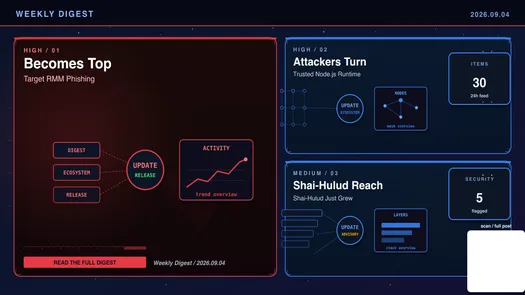
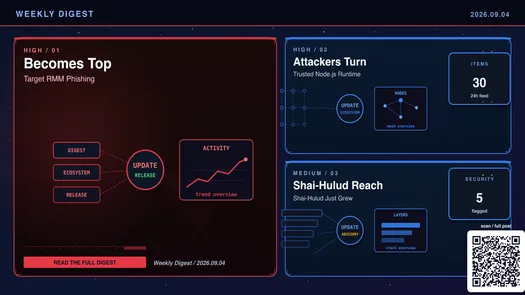
fix(cover): 3일간 라이브였던 빈 QR 복구 + 검증 불가일 때 통과하던 게이트 차단
09-04 다이제스트 커버의 QR 은 불일치가 아니라 **빈 path** 였다(`d=""`). 즉 흰
사각형 위에 "scan / full post" 라벨만 얹힌 채로 프로덕션에 실려 나갔다. 336개
커버 중 이 1개뿐이고, 도입 커밋은 f4a459d1 — 봇이 아니라 로컬 머신
(`namyongkim@twodragon-2.local`)에서 손으로 발행한 것이다. 이 커버가 09-03 부터
main 의 SVG Quality Check 를 red 로 잡아두고 있었다.

**게이트가 왜 못 잡았나.** `check_cover_qr_urls.py` 는 기대값을 `gen_qr(canonical)`
로 만드는데, `gen_qr` 은 `qrcode` 가 import 되지 않으면 모든 입력에 `""` 를
돌려준다. 렌더된 값도 `""` 이므로 비교는 `"" == ""` 이 되어 **공허하게 통과한다.**
같은 파일로 실측: `qrcode` 있으면 `Failures: 1`, import 를 막으면 바이트가 동일한
그 파일이 `OK: 1` / exit 0. 생성기가 고장난 바로 그 환경에서 게이트가 눈이 먼다.

- `fix_qr_url_in_covers.py --commit` 로 QR 블록 복구(코퍼스 214/214 OK).
- 래스터 6종 재생성. `_og.png` 는 `rsvg-convert` 로 다시 뜨고, avif/webp/card 는
  `auto_publish_news._generate_and_commit_raster_variants` (프로덕션과 같은 경로,
  멱등이라 기존 파일 삭제 후 실행). 크롭 육안 확인: 이전 = 빈 흰 사각형,
  이후 = 실제 QR.
- 게이트가 `QRCODE_AVAILABLE` 이 False 면 exit 2 로 **실행을 거부** 한다. 배선된
  세 호출자 모두 의존성을 설치하므로(check-svg/jekyll → scripts/requirements-ci.txt,
  blogwatcher → requirements-blogwatcher.txt) 진짜로 없는 곳에서만 발화한다 —
  이전의 "OK" 가 거짓말이던 바로 그 지점.
- 회귀 가드 `test_check_cover_qr_urls.py` 추가. 대조군 포함: 같은 바이트가
  `qrcode` 있을 때 실제로 거부되는지를 먼저 증명한다(없으면 "부재 시 exit 2" 만으로는
  위반이 아닌 픽스처에도 통과한다). `skipif(not QRCODE_AVAILABLE)` 는 일부러 쓰지
  않았다 — 그게 바로 이 가드가 잡으려는 실패(검증 못 했는데 green)를 가드 안에서
  재현하는 꼴이다. 대신 단언한다.

남은 구멍(이번 범위 밖, 보고만 함): 이 게이트는 pre-commit 에 배선돼 있지 않다.
CI 두 곳과 크론에만 있어서 로컬 발행 경로에는 QR 검사가 아예 없었다.

검증: QR 코퍼스 214/214, svg_quality 336 PASS/0 FAIL, honesty --strict exit 0
[…]

Changed region(s): [[0.8838, 0.7932, 1.0, 0.9763]]

diff --git a/scripts/tests/test_check_cover_qr_urls.py b/scripts/tests/test_check_cover_qr_urls.py
@@ -1,0 +1,120 @@
+#!/usr/bin/env python3
+"""Regression guard: the QR gate must not pass vacuously without ``qrcode``.
+
+``check_cover_qr_urls.py`` proves a cover's QR by re-encoding the canonical
+permalink with ``gen_qr`` and byte-comparing against the rendered path data.
+``gen_qr`` returns ``""`` when the optional ``qrcode`` package is missing, and
+``qr_block`` then emits ``<path ... d=""/>`` — a blank white square where the QR
+should be. Both sides of the comparison are ``""``, so the gate reported
+``Failures: 0`` on exactly the covers it existed to reject.
+
+That is not hypothetical. ``2026-09-04-Tech_Security_Weekly_Digest_AI_Malware_Rust.svg``
+shipped with ``d=""`` in f4a459d1 — a hand-run publish from a laptop, not the
+blogwatcher — and every CI runner (all of which do install ``qrcode``) failed on
+it for the next three days while the blank QR sat live on the site.
+
+The control matters here as much as the treatment. A test that only asserts
+"missing qrcode => exit 2" passes just as well against a fixture that is not a
+violation at all, so ``test_control_*`` first proves the same bytes are rejected
+when ``qrcode`` IS importable. Without that pairing this file would be another
+probe with no control.
+
+Note the absence of ``skipif(not QRCODE_AVAILABLE)`` on the control. Skipping
+there would reproduce, in the guard, the very failure the guard exists to catch:
+an environment without ``qrcode`` would report green while nothing was verified.
+``qrcode`` is a declared dependency of every environment that runs this suite
+(``scripts/requirements-ci.txt`` for svg-lint and jekyll,
+``requirements-blogwatcher.txt`` for the cron corpus gate), so its absence is a
+real failure and is asserted as one below.
+"""
+
+from __future__ import annotations
+
+import check_cover_qr_urls as gate
+import pytest
+from lib.svg_l22_generator import QRCODE_AVAILABLE, qr_block
+
+# The gate only inspects covers it knows the L20 pipeline emitted.
+_L20_MARKER = "<!-- profile: high-quality-cover (L20 Hero+2-Card) -->"
+_COVER_NAME = "2026-09-04-Tech_Security_Weekly_Digest_AI_Malware_Rust.svg"
+
+
+def _write_cover(directory, name: str, qr_url: str | None) -> None:
+    """Write a minimal L20-shaped cover.
+
+    ``qr_url=None`` reproduces the blank-QR failure: the QR block is present and
+    structurally valid, but its path data is empty — what ``qr_block`` emits when
+    ``gen_qr`` has no ``qrcode`` to call.
+    """
+    if qr_url is None:
+        block = (
+            '<g transform="translate(1080,504)" filter="url(#softShadow)">\n'
+            '  <rect x="-12" y="-12" width="132" height="132" rx="8" fill="#FFFFFF"/>\n'
+            '  <path fill="#0A1020" d=""/>\n'
+            "</g>"
+        )
+    else:
+        block = qr_block(qr_url)
+    (directory / name).write_text(
+        f'<svg xmlns="http://www.w3.org/2000/svg">{_L20_MARKER}\n{block}\n</svg>',
+        encoding="utf-8",
+    )
+
+
+@pytest.fixture
+def blank_qr_cover(tmp_path, monkeypatch):
+    """A single blank-QR cover, with the gate's glob root pointed at it."""
+    _write_cover(tmp_path, _COVER_NAME, qr_url=None)
+    monkeypatch.setattr(gate, "ROOT", tmp_path)
+    return tmp_path
+
+
+def test_qrcode_is_installed_in_this_environment():
+    """Asserted, not skipped — see the module docstring.
+
+    Every runner that executes scripts/tests/ declares qrcode. If this fails, the
+    control below cannot run, and a skip would have hidden that behind a green
+    suite.
+    """
+    assert QRCODE_AVAILABLE, (
+        "qrcode is not importable, so the control cannot distinguish a correct "
+        "cover from a blank one. It is declared in scripts/requirements-ci.txt "
+        "and requirements-blogwatcher.txt — install it rather than skipping."
+    )
+
+
+def test_control_blank_qr_is_rejected_when_qrcode_is_available(blank_qr_cover, capsys):
+    """Control: these exact bytes ARE a violation, so the treatment is meaningful."""
+    assert gate.main(["--glob", "*.svg"]) == 1
+    out = capsys.readouterr().out
+    assert "Failures: 1" in out
+    assert "[mismatch]" in out
+
+
+def test_gate_refuses_to_run_when_qrcode_is_unavailable(
+    blank_qr_cover, monkeypatch, capsys
+):
+    """Treatment: the same cover must not be reported OK just because we went blind."""
+    monkeypatch.setattr(gate, "QRCODE_AVAILABLE", False)
+
+    exit_code = gate.main(["--glob", "*.svg"])
+
+    assert exit_code == 2, (
+        "the gate returned a non-refusal exit code with qrcode unavailable. If it "
+        "returned 0 it just certified a blank QR, which is the f4a459d1 failure."
+    )
+    captured = capsys.readouterr()
+    assert "cannot verify" in captured.err
+    assert "Failures: 0" not in captured.out, (
+        "the gate printed a passing report while unable to encode anything"
+    )
+
+
+def test_correct_cover_still_passes(tmp_path, monkeypatch, capsys):
+    """The refusal must not swallow the happy path."""
+    canonical = gate._post_url_from_filename(_COVER_NAME)
+    _write_cover(tmp_path, _COVER_NAME, qr_url=canonical)
+    monkeypatch.setattr(gate, "ROOT", tmp_path)
+
+    assert gate.main(["--glob", "*.svg"]) == 0
+    assert "Failures: 0" in capsys.readouterr().out

diff --git a/scripts/check_cover_qr_urls.py b/scripts/check_cover_qr_urls.py
@@ -16,11 +16,23 @@ QR decoder dependency. ``gen_qr`` is deterministic per input URL, so a
 byte-equal match between rendered path data and a fresh encode proves
 the URL the renderer used was the canonical one.
 
+That proof holds only while ``qrcode`` is importable. Without it
+``gen_qr`` returns ``""`` for every input, so the comparison becomes
+``"" == ""`` and this gate reports OK on a cover whose QR is a blank
+white square. Measured 2026-09-06 on the real 09-04 cover: with
+``qrcode`` installed the gate returns ``Failures: 1``; with its import
+blocked, the byte-identical file returns ``OK: 1`` and exit 0. That is
+how ``2026-09-04-Tech_Security_Weekly_Digest_AI_Malware_Rust.svg``
+shipped with ``d=""`` from a local publish (f4a459d1) and then held
+main red for three days once CI — which does install ``qrcode`` — read
+the same file. So refuse to run rather than pass vacuously: a gate that
+cannot verify must not say OK.
+
 Exit codes
 ----------
 - ``0`` — all covers verified.
 - ``1`` — at least one cover has a mismatched / missing QR.
-- ``2`` — usage error.
+- ``2`` — usage error, or ``qrcode`` is unavailable so nothing can be verified.
 
 Usage
 -----
@@ -38,7 +50,7 @@ from pathlib import Path
 ROOT = Path(__file__).resolve().parent.parent
 sys.path.insert(0, str(ROOT))
 
-from scripts.lib.svg_l22_generator import gen_qr  # noqa: E402
+from scripts.lib.svg_l22_generator import QRCODE_AVAILABLE, gen_qr  # noqa: E402
 from scripts.news.l20_dispatch import _post_url_from_filename  # noqa: E402
 
 _QR_PATH_RE = re.compile(
@@ -87,6 +99,22 @@ def main(argv: list[str] | None = None) -> int:
         help="cover SVG glob",
     )
     args = parser.parse_args(argv)
+
+    # Before anything else: without qrcode the expected value is "" for every
+    # cover, so every comparison succeeds and the report reads "Failures: 0".
+    # Blocking here is safe for all three wired callers — check-svg.yml and
+    # jekyll.yml install scripts/requirements-ci.txt (qrcode>=8.2) and
+    # ai-blogwatcher.yml installs requirements-blogwatcher.txt (qrcode[pil]).
+    # It fires only where the dependency is genuinely absent, which is exactly
+    # where the previous "OK" was a lie.
+    if not QRCODE_AVAILABLE:
+        print(
+            "cannot verify: the 'qrcode' package is not importable, so gen_qr() "
+            "returns '' for every URL and every cover would compare equal. "
+            "Install it (pip install -r scripts/requirements-ci.txt) and re-run.",
+            file=sys.stderr,
+        )
+        return 2
 
     paths = sorted(ROOT.glob(args.glob))
     if not paths:
